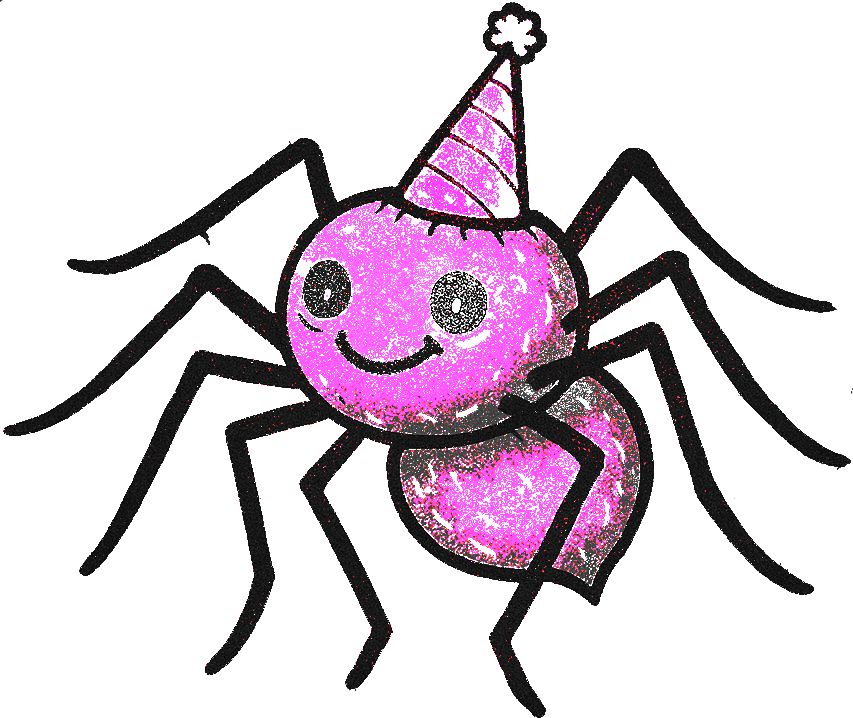
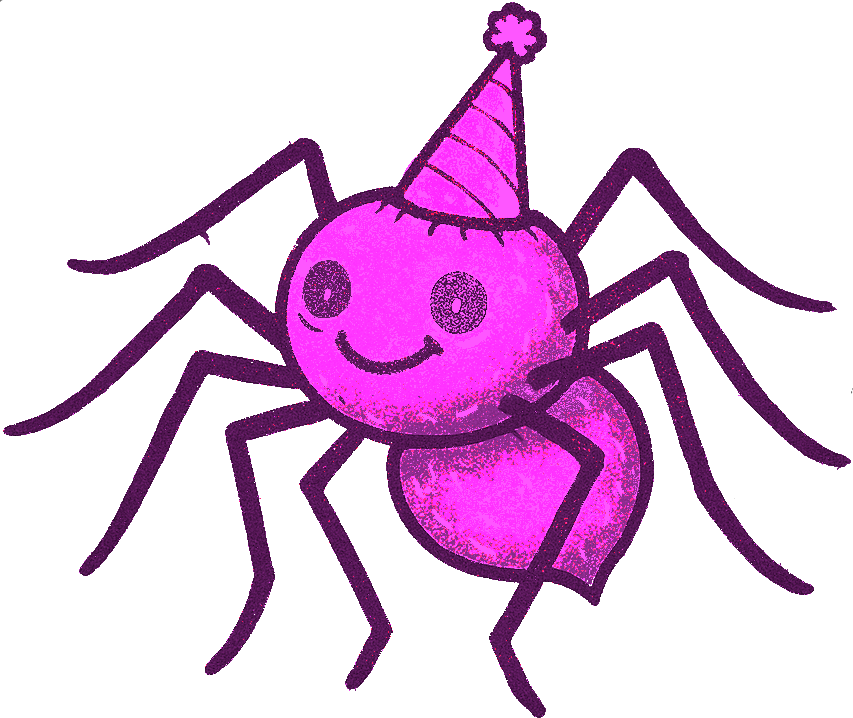
Rune

Changed region(s): [[0.0, 0.0, 1.0, 1.0]]

diff --git a/src/puzzles/SymbolCodePuzzle.js b/src/puzzles/SymbolCodePuzzle.js
@@ -1,93 +1,196 @@
+// src/puzzles/SymbolCodePuzzle.js
 import { DESIGN_SIZE } from "../config.js";
 
 export default class SymbolCodePuzzle {
   constructor(scene, cfg, onSolved) {
     this.scene = scene;
-    this.cfg = cfg;
+    this.cfg = Object.assign(
+      {
+        allowedForms: ["N","U","Z","L","C","O","S","I"], // zufällige Ziel-Formen
+        padSize: DESIGN_SIZE * 0.42,  // Gesamtgröße des 2x2-Pads
+        gap: DESIGN_SIZE * 0.02,      // Abstand zwischen den Feldern
+        showLegend: true              // Info-Text unter dem Pad anzeigen
+      },
+      cfg || {}
+    );
     this.onSolved = onSolved;
 
-    this.sequence = [];
-    this.items = [];
+    this.items = [];      // klickbare Felder (Runenbilder oder Rechtecke)
+    this.sequence = [];   // Spieler-Eingabe (Folge von "UL","UR","LL","LR")
+    this.targetForm = null;
+    this.solution = [];   // erwartete Folge zur gewählten Form
+
+    this._root = null;    // Container-Referenz für destroy()
   }
 
   preload() {
-    this.cfg.symbols.forEach(sym => {
-      if (sym.path && !this.scene.textures.exists(sym.key)) {
-        this.scene.load.image(sym.key, sym.path);
+    // Keine Assets nötig: runes (rune1..rune4) sind laut Vorgabe bereits geladen.
+  }
+
+  create(parentContainer) {
+    const container = parentContainer || this.scene.add.container(DESIGN_SIZE/2, DESIGN_SIZE/2);
+    this._root = container;
+
+    // --- Ziel-Form wählen & Lösung festlegen ---
+    this.targetForm = Phaser.Utils.Array.GetRandom(this.cfg.allowedForms);
+    this.solution = this._sequenceFor(this.targetForm);
+
+    // --- Headline / Hinweis ---
+    const riddleText = this.scene.add.text(
+      0, -this.cfg.padSize * 0.65,
+      this._hintFor(this.targetForm),
+      {
+        fontFamily: "SpukFont",
+        fontSize: `${DESIGN_SIZE * 0.028}px`,
+        color: "#ffffff",
+        align: "center",
+        wordWrap: { width: DESIGN_SIZE * 0.86 }
       }
+    ).setOrigin(0.5);
+    container.add(riddleText);
+
+    // --- 2x2-Pad mit Runen bauen ---
+    this._buildPad(container);
+
+    // --- Legende (optional) ---
+    if (this.cfg.showLegend) {
+      const legend = this.scene.add.text(
+        0, this.cfg.padSize * 0.62,
+        "KLICKE DIE ECKEN IN DER RICHTIGEN REIHENFOLGE.",
+        {
+          fontFamily: "SpukFont",
+          fontSize: `${DESIGN_SIZE * 0.018}px`,
+          color: "#cccccc",
+          align: "center",
+          wordWrap: { width: DESIGN_SIZE * 0.8 }
+        }
+      ).setOrigin(0.5);
+      container.add(legend);
+    }
+  }
+
+  // ---- Pad mit fest zugeordneten Runen (rune1..rune4) ----
+  _buildPad(container) {
+    const S = this.cfg.padSize;
+    const G = this.cfg.gap;
+    const tile = (S - G) / 2;
+
+    // Positionen relativ zum Containerzentrum
+    const POS = {
+      UL: { x: - (tile/2 + G/2), y: - (tile/2 + G/2) }, // oben links
+      UR: { x: + (tile/2 + G/2), y: - (tile/2 + G/2) }, // oben rechts
+      LL: { x: - (tile/2 + G/2), y: + (tile/2 + G/2) }, // unten links
+      LR: { x: + (tile/2 + G/2), y: + (tile/2 + G/2) }, // unten rechts
+    };
+
+    // Feste Zuordnung: rune1..rune4 → Ecken
+    const byCode = {
+      UL: "rune1",
+      UR: "rune2",
+      LL: "rune3",
+      LR: "rune4",
+    };
+
+    // Hintergrundplatte
+    const bg = this.scene.add.rectangle(0, 0, S, S, 0x000000, 0.25)
+      .setStrokeStyle(2, 0x777777);
+    container.add(bg);
+
+    const makeClickable = (code, displayObj) => {
+      displayObj
+        .setInteractive({ useHandCursor: true })
+        .on("pointerdown", () => {
+          // visuelles Feedback
+          if (displayObj.setAlpha) {
+            displayObj.setAlpha(0.7);
+            this.scene.time.delayedCall(120, () => displayObj.setAlpha(1));
+          }
+          this._press(code);
+        });
+      this.items.push(displayObj);
+    };
+
+    // Runenbilder platzieren
+    Object.entries(byCode).forEach(([code, key]) => {
+      const p = POS[code];
+      let img;
+      if (this.scene.textures.exists(key)) {
+        img = this.scene.add.image(p.x, p.y, key).setOrigin(0.5).setDisplaySize(tile, tile);
+      } else {
+        // Fallback: falls Textur fehlt → Rechteck
+        img = this.scene.add.rectangle(p.x, p.y, tile, tile, 0x1b1b2b, 0.9).setStrokeStyle(2, 0x999999);
+        this.scene.add.text(p.x, p.y, code, {
+          fontFamily: "SpukFont",
+          fontSize: `${DESIGN_SIZE * 0.03}px`,
+          color: "#ffffff",
+          align: "center"
+        }).setOrigin(0.5);
+      }
+      container.add(img);
+      makeClickable(code, img);
     });
   }
 
-create(parentContainer) {
-  // --- Rätseltext hinzufügen ---
-  const riddleText = this.scene.add.text(
-    DESIGN_SIZE / 2,   // Mitte X
-    80,                // etwas oberhalb vom Spielfeld
-    "DAS WIDERWORT BEGINNT UND ENDET MIT EINEM...",
-    {
-      fontFamily: "SpukFont",
-      fontSize: "28px",
-      color: "#ffffff",
-      align: "center",
-      wordWrap: { width: DESIGN_SIZE - 100 }
-    }
-  ).setOrigin(1, 1); // horizontal zentriert
+  _press(code) {
+    // Eingabe aufzeichnen
+    this.sequence.push(code);
 
-  if (parentContainer) parentContainer.add(riddleText);
-
-  // --- Symbole hinzufügen ---
-  this.cfg.symbols.forEach((sym, i) => {
-    const pos = this.cfg.positions[i];
-
-    const item = this.scene.add.image(pos.x, pos.y, sym.key)
-      .setInteractive({ useHandCursor: true })
-      .setScale(0.4)
-      .setAlpha(1);
-
-    item.on("pointerdown", () => {
-      this._select(sym.key, item);
-    });
-
-    if (parentContainer) parentContainer.add(item);
-    this.items.push(item);
-  });
-}
-
-
-_select(key, item) {
-  this.sequence.push(key);
-
-  // --- Statt Scale-Tween: kurzes Aufleuchten ---
-  item.setTint(0xffff99); // Gelb
-  this.scene.time.delayedCall(300, () => {
-    item.clearTint();
-  });
-
-  // Prüfen ob Lösung vollständig
-  if (this.sequence.length === this.cfg.solution.length) {
-    if (this._checkSolution()) {
-      this.onSolved && this.onSolved();
-    } else {
-      // Reset
+    // Prüfe Schritt-für-Schritt (Prefix-Check)
+    const idx = this.sequence.length - 1;
+    if (this.sequence[idx] !== this.solution[idx]) {
+      // Falsch → Reset + kurzes Blink-Feedback
       this.sequence = [];
       this.scene.tweens.add({
         targets: this.items,
         alpha: 0.2,
-        duration: 200,
+        duration: 120,
         yoyo: true,
-        repeat: 2,
+        repeat: 1,
         onComplete: () => this.items.forEach(i => i.setAlpha(1))
       });
+      return;
+    }
+
+    // Fertig?
+    if (this.sequence.length === this.solution.length) {
+      this.onSolved && this.onSolved();
     }
   }
-}
 
+  // ---- Sequenzen laut deiner Vorgabe ----
+  _sequenceFor(letter) {
+    // Kürzel: UL = oben links, UR = oben rechts, LL = unten links, LR = unten rechts
+    const seqs = {
+      N: ["LL","UL","LR","UR"],
+      U: ["UL","LL","LR","UR"],
+      Z: ["UL","UR","LL","LR"],
+      L: ["UL","LL","LR"],
+      C: ["UR","UL","LL","LR"],
+      O: ["UL","LL","LR","UR","UL"],
+      S: ["UR","UL","LR","LL"],
+      I: ["UR","LR"],
+    };
+    return (seqs[letter] || []).slice();
+  }
 
-  _checkSolution() {
-    return this.sequence.every((k, i) => k === this.cfg.solution[i]);
+  // ---- Klartext-Hinweise (kannst du gern kryptischer formulieren) ----
+  _hintFor(letter) {
+    const hints = {
+      N: "DAS WIDERWORT BEGINNT UND ENDET MIT EINEM …",
+      U: "ICH BIN DIE FORM EINES HUFES - WELCHER BUCHSTABE SUCHST DU?",
+      Z: "ZICKZACK WIE EIN BLITZ - WELCHER BUCHSTABE PASST?",
+      L: "EIN WINKEL, ZWEI SCHENKEL - WELCHER BUCHSTABE IST GEMEINT?",
+      C: "FAST EIN KREIS, DOCH OFFEN - WELCHER BUCHSTABE TRIFFT ES?",
+      O: "RUND WIE DER MOND - WELCHER BUCHSTABE WIRD GESUCHT?",
+      S: "SCHLANGENFOERMIG GEWUNDEN - WELCHER BUCHSTABE IST GEMEINT?",
+      I: "EIN GERADER STRICH - WELCHEN BUCHSTABEN SUCHST DU?"
+    };
+    return hints[letter] || `Finde die Form „${letter}“.`;
   }
 
   destroy() {
     this.items.forEach(i => i.destroy());
+    this.items = [];
+    this._root?.destroy?.();
   }
 }
